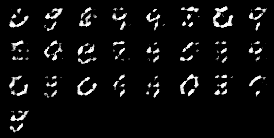
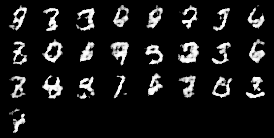
ran one epoch with caps

diff --git a/pytorch_MNIST_CAPS_DCGAN.py b/pytorch_MNIST_CAPS_DCGAN.py
@@ -206,7 +206,8 @@ for epoch in range(train_epoch):
         else:
             x_, y_real_, y_fake_ = Variable(x_), Variable(y_real_), Variable(y_fake_)
 
-        D_result = D(x_).squeeze()
+        #D_result = D(x_).squeeze()
+        D_result = D(x_)
         #D_real_loss = BCE_loss(D_result, y_real_)
         D_real_loss= D.margin_loss(D_result,y_real_)
 
@@ -219,8 +220,8 @@ for epoch in range(train_epoch):
 
         G_result = G(z_)
 
-        D_result = D(G_result).squeeze()
-
+        #D_result = D(G_result).squeeze()
+        D_result=D(G_result)
         #D_fake_loss = BCE_loss(D_result, y_fake_)
         D_fake_loss = D.margin_loss(D_result,y_fake_)
 
@@ -246,8 +247,8 @@ for epoch in range(train_epoch):
             z_ = Variable(z_)
 
         G_result = G(z_)
-        D_result = D(G_result).squeeze()
-
+        #D_result = D(G_result).squeeze()
+        D_result = D(G_result)
         #G_train_loss = BCE_loss(D_result, y_real_)
         G_train_loss=D.margin_loss(D_result,y_real_)
         G_train_loss.backward()
